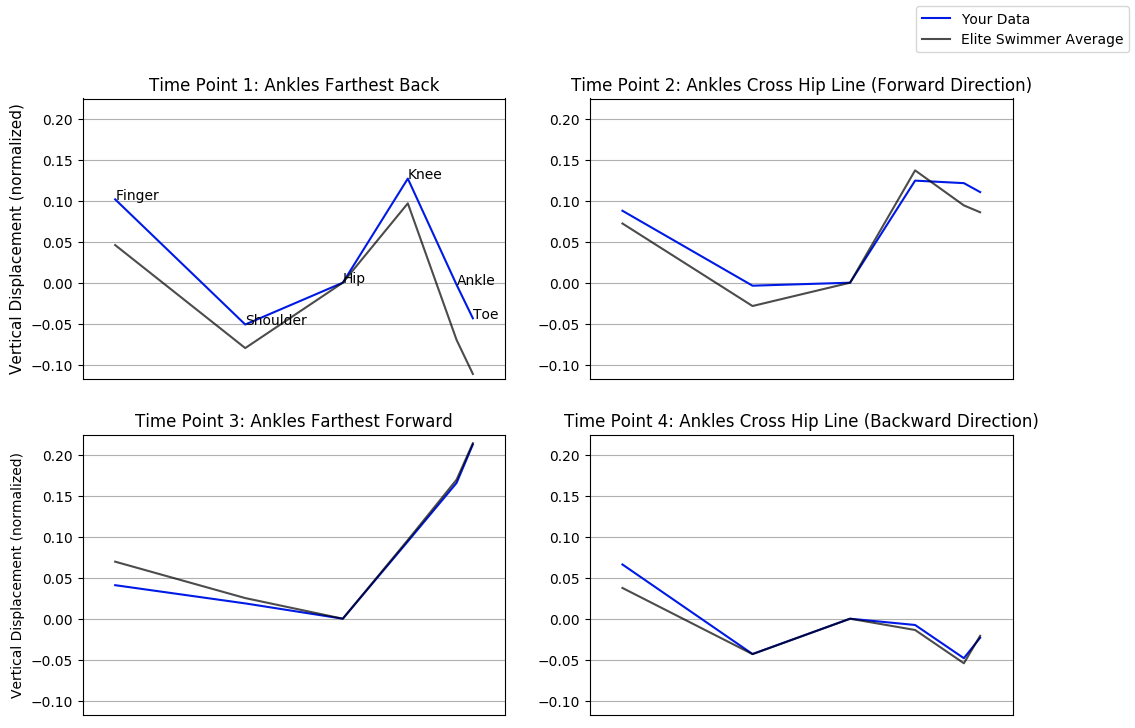
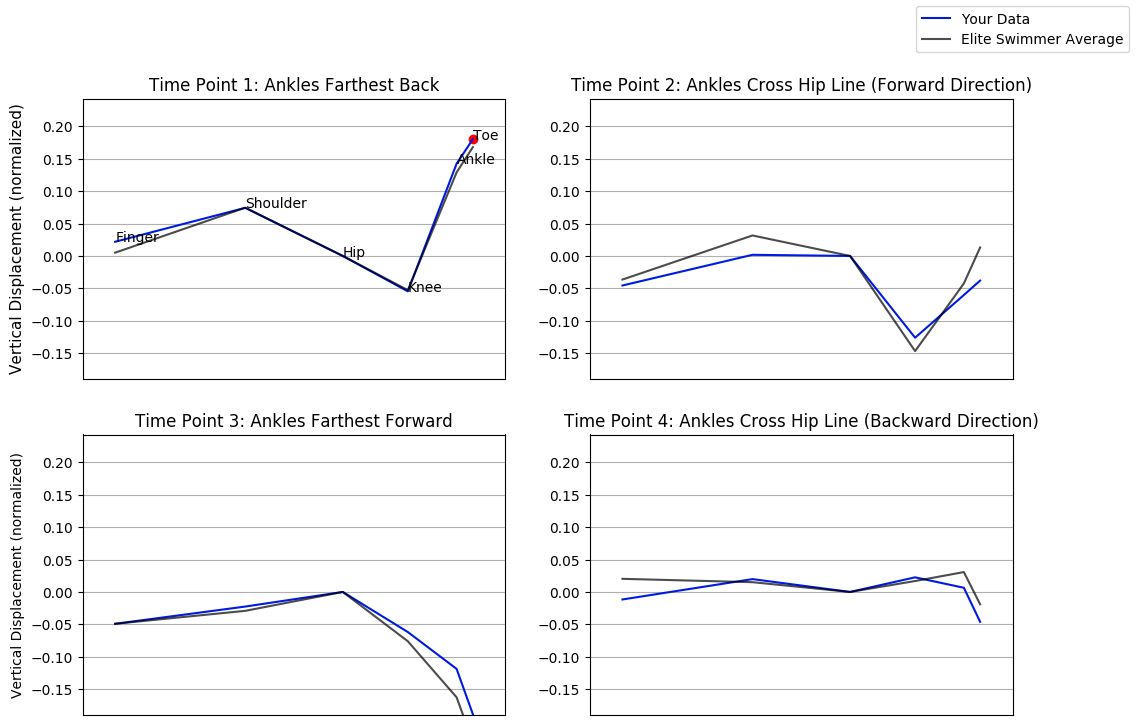
Re-reverse vertical displacement data before graphing

diff --git a/createpdf.py b/createpdf.py
@@ -34,13 +34,14 @@ def create_pdf(name, orientation, gender, speed, fig1_dest, fig2_dest, fig3_dest
     pdf.image(fig1_dest, x=7, y=42, h=70)
     pdf.image(fig3_dest, x=102, y=42, h=66)
 
-    pdf.set_xy(x=25,y=110)
-    pdf.set_font('Arial','',7)
+    pdf.set_xy(x=24,y=110)
+    pdf.set_font('Arial','',9)
     pdf.set_text_color(r=0,g=0,b=0)
-    graph3_explanation = 'Time interval between key points of kick. See below for definitions of key points'
+    graph3_explanation = 'Time interval between key points of kick. See below for \ndefinitions of key points'
     graph1_explanation = 'All displacement values calculated relative to hip'
     pdf.cell(50,8,graph1_explanation,0,0,'C')
-    pdf.cell(127,8,graph3_explanation,0,1,'R')
+    pdf.set_xy(x=115,y=110)
+    pdf.multi_cell(0,4,graph3_explanation,0,1,'R')
     
 
     graph2_title = 'Statistical Analysis of Vertical Displacement'

diff --git a/plotdata.py b/plotdata.py
@@ -1,6 +1,6 @@
 import numpy as np
 
-def plot_data(data, only_keys, mean, p_values):
+def plot_data(data, only_keys, mean, p_values, orientation):
 
     #Bug that crashes python when Tk instance 
     import matplotlib.pyplot as plt  
@@ -61,6 +61,18 @@ def plot_data(data, only_keys, mean, p_values):
         total_min = mean_min
 
     #Create Comparison Plot
+
+    def flip(data):
+        for (columnName, columnData) in data.iteritems():
+            # print(columnName,columnData)
+            if columnName == 't': continue
+            columnData = 0 - columnData
+            data[columnName] = columnData
+        return data
+
+    if orientation == 'Front':
+        only_keys = flip(only_keys)
+        mean = flip(mean)
 
     fig2, ((ax2, ax3),(ax4,ax5)) = plt.subplots(nrows = 2, ncols=2, figsize=(12,8)) 
 

diff --git a/dolphin.py b/dolphin.py
@@ -17,8 +17,7 @@ if __name__ == '__main__':
     from createpdf import create_pdf
 
     #Set up parameters
-    # input_values = strtobool(sys.argv[1])
-    input_values = True
+    input_values = False
 
     if input_values:
         name = input("What is your name? ")
@@ -105,7 +104,7 @@ if __name__ == '__main__':
 
         # Step 5: Plot Stored Data against new Data.
 
-        fig1, fig2, fig3 = plot_data(data, only_keys, mean, p_values)
+        fig1, fig2, fig3 = plot_data(data, only_keys, mean, p_values, orientation)
 
         fig1.savefig('fig1.png',bbox_inches='tight')
         fig2.savefig('fig2.png',bbox_inches='tight')

diff --git a/CreateDataFrame.py b/CreateDataFrame.py
@@ -8,7 +8,7 @@ from tkinter.filedialog import askopenfilename
 
 import numpy as np
 
-def To_DataFrame(orientation, select=True):
+def To_DataFrame(orientation, select=False):
 
     Tk().withdraw()
 
